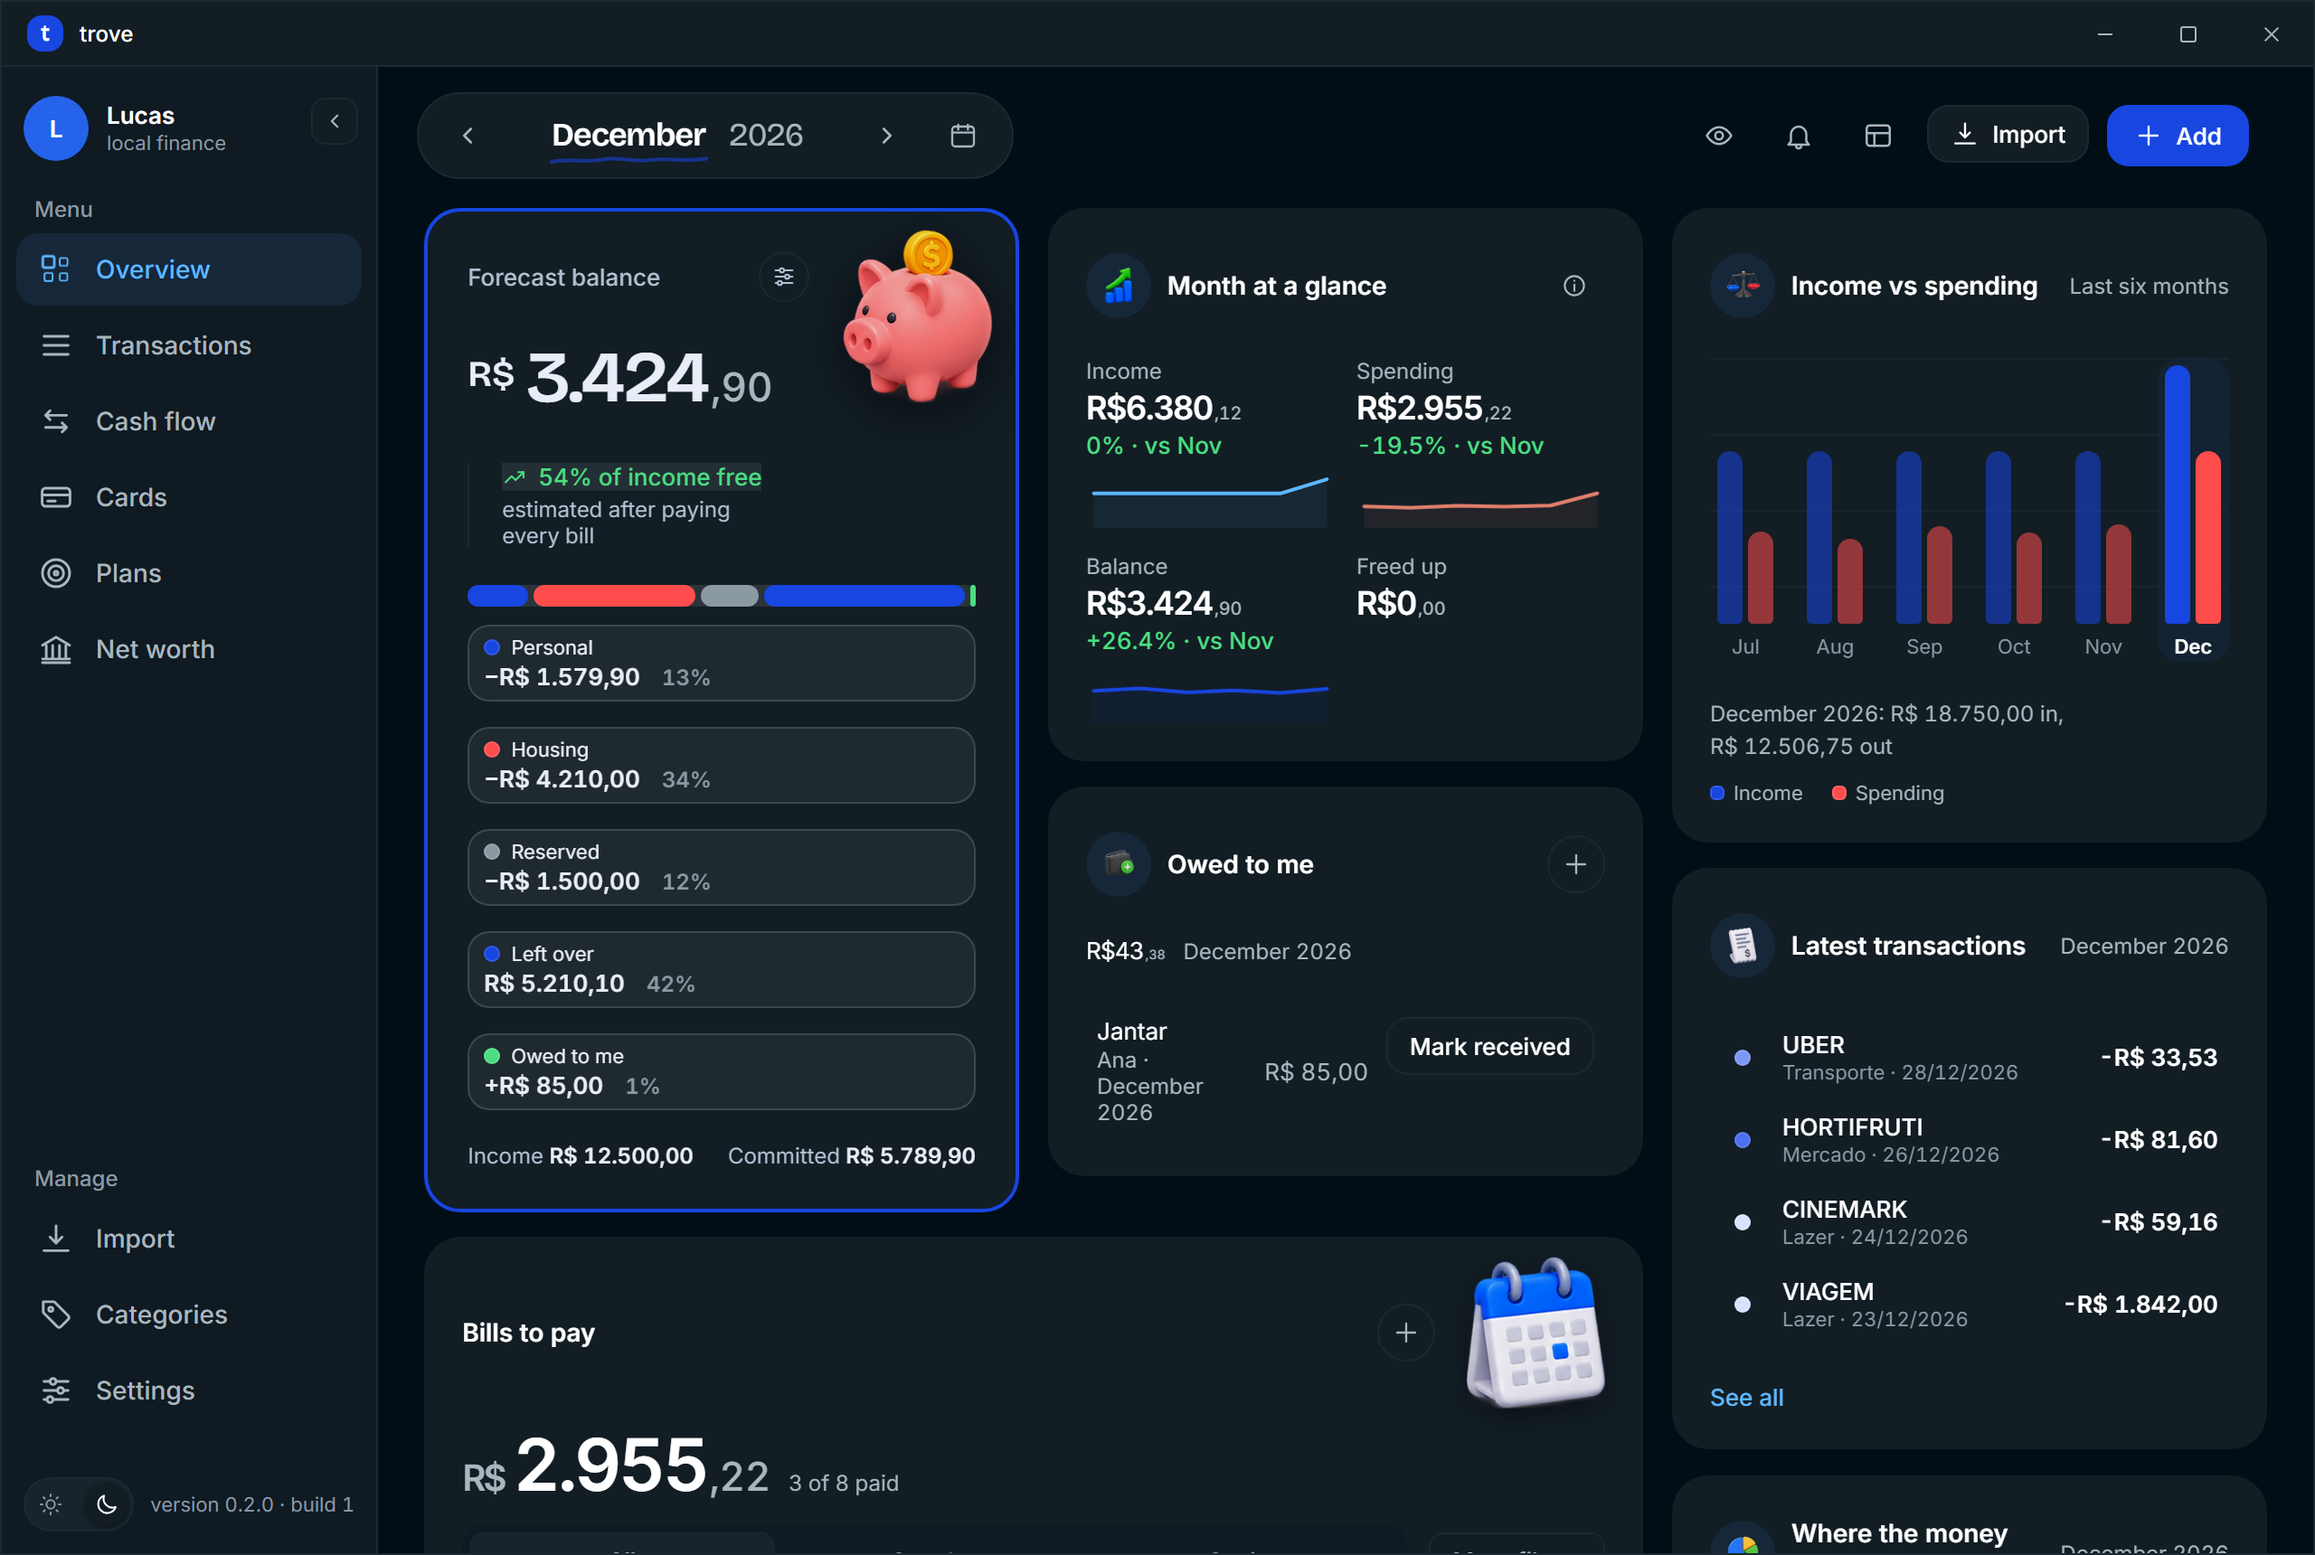
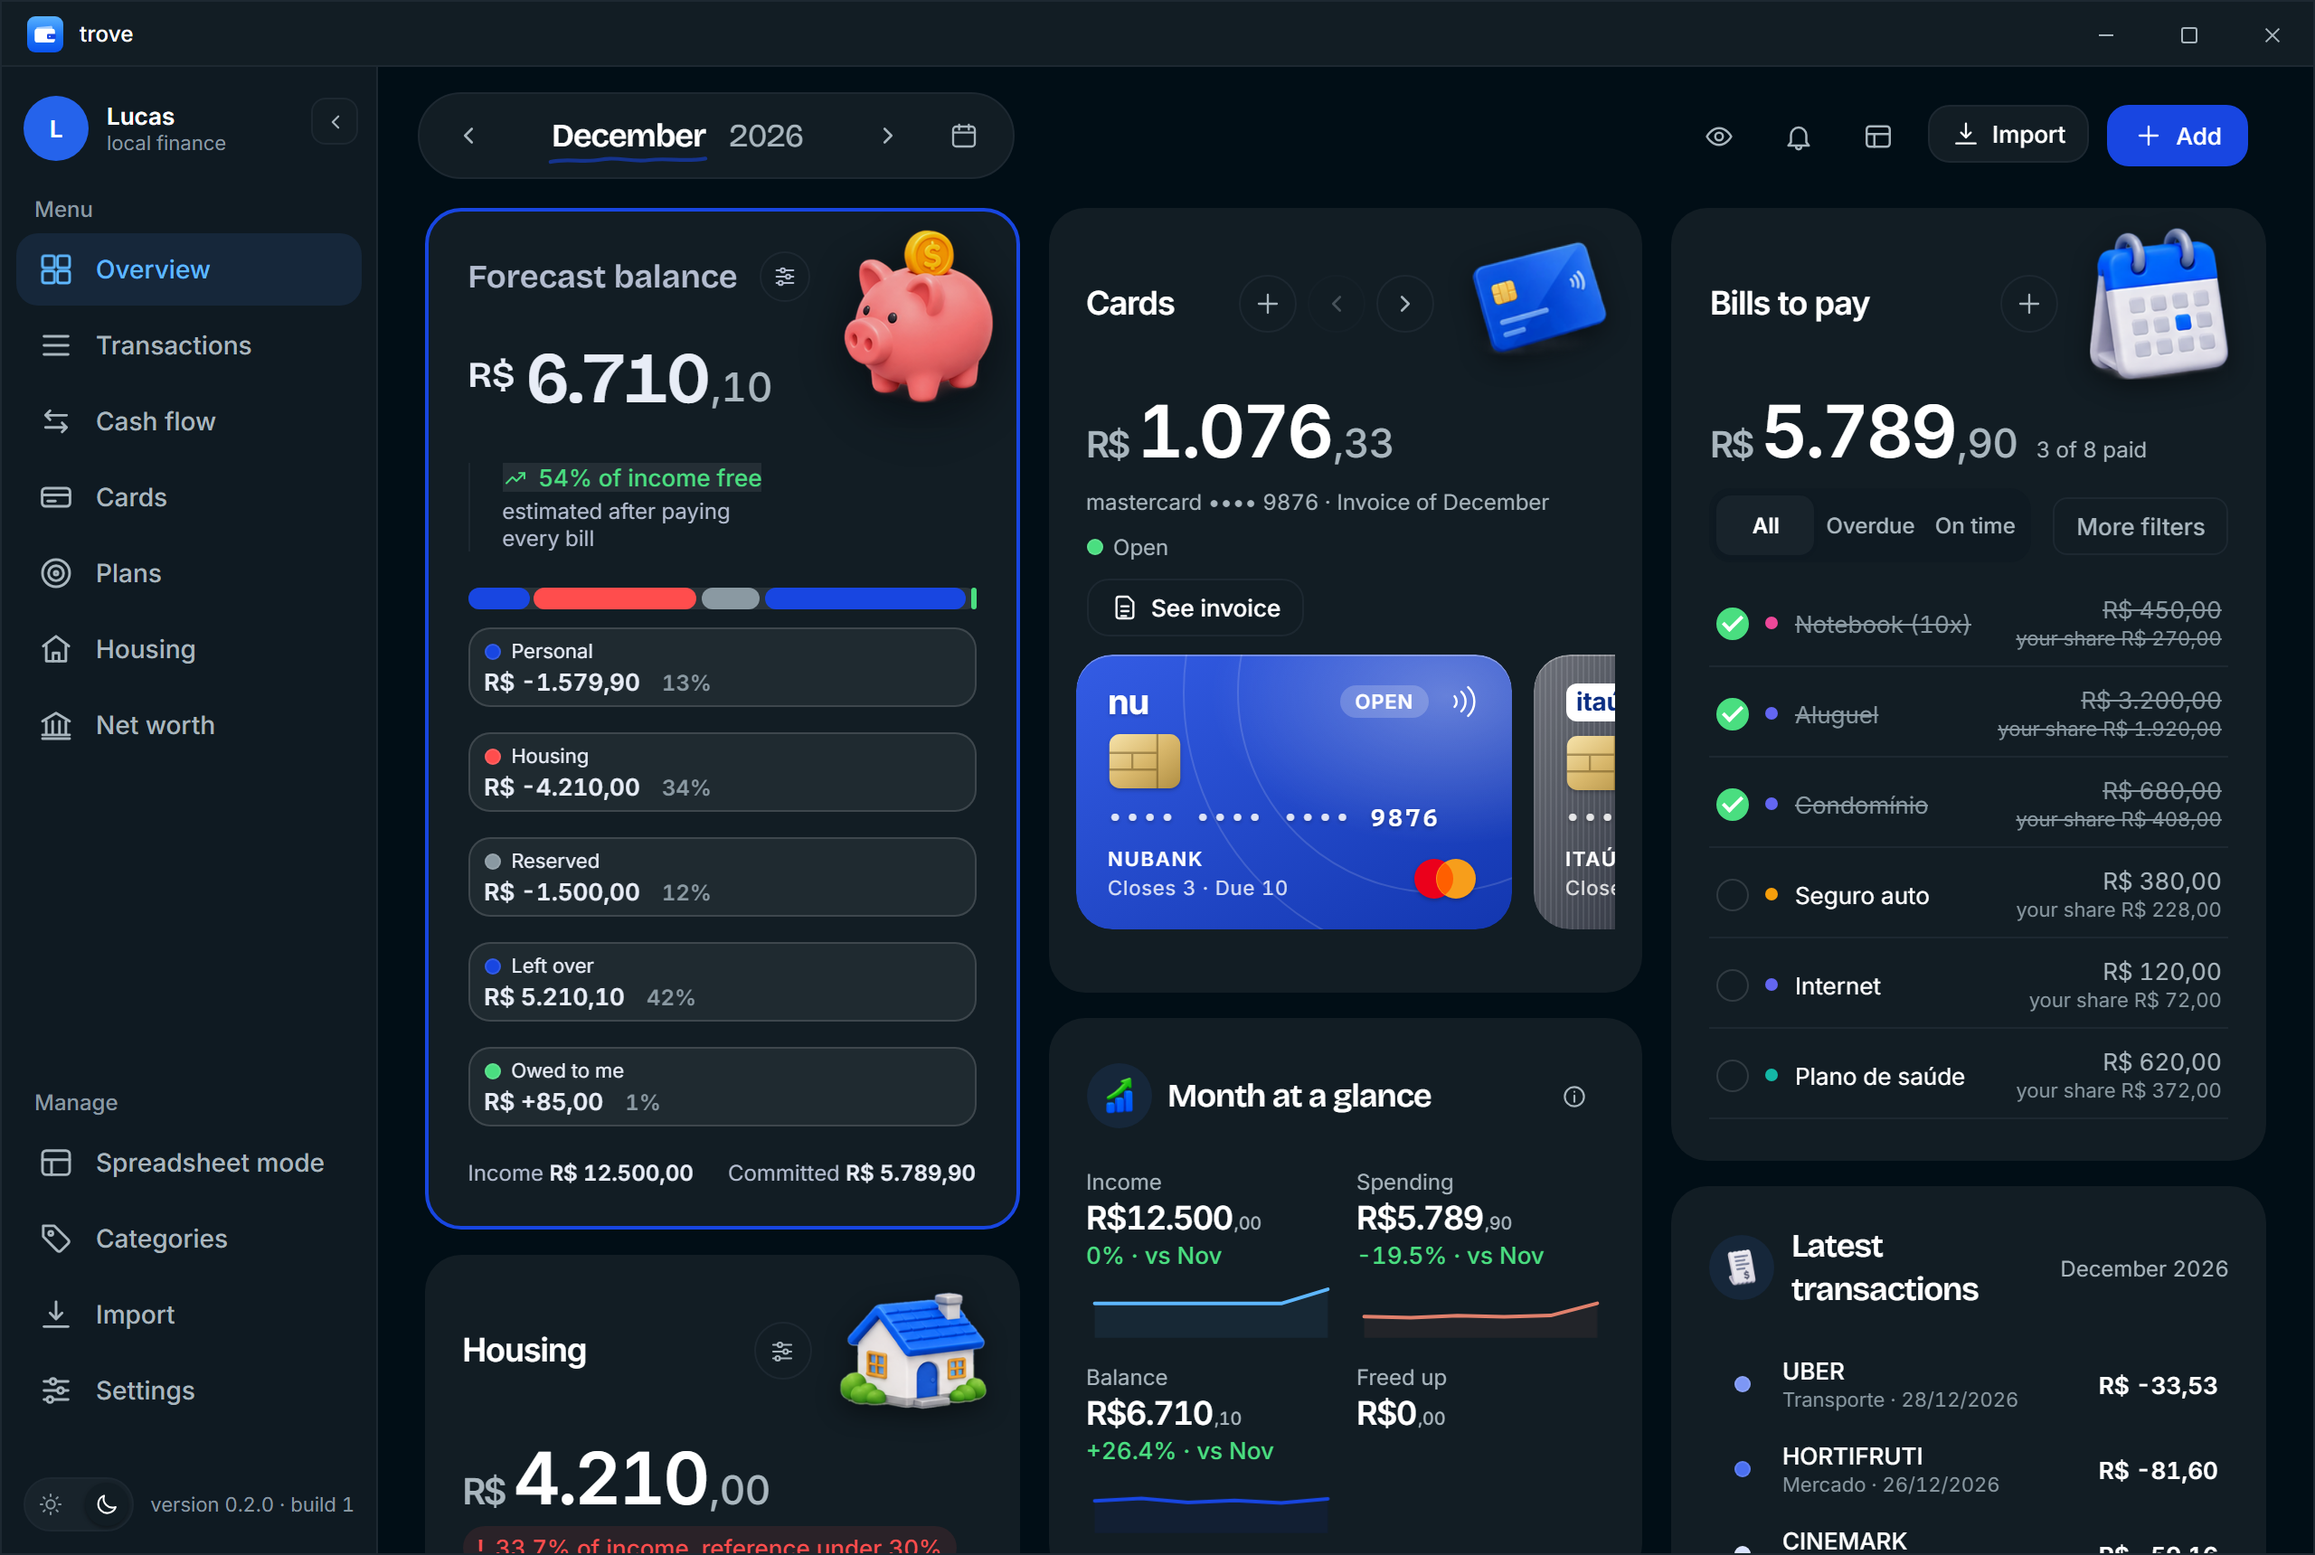
docs: README, site chips and release notes for spreadsheet mode; new screenshots

diff --git a/site/src/i18n/en.ts b/site/src/i18n/en.ts
@@ -59,7 +59,7 @@ export const en: Strings = {
         text: "Accounts, cards, investments and debts side by side, with their evolution over time.",
       },
     ],
-    small: ["Backup and restore with verification", "English and Portuguese", "Automatic updates"],
+    small: ["Spreadsheet mode for spending and investments", "Backup and restore with verification", "English and Portuguese", "Automatic updates"],
   },
   data: {
     eyebrow: "Where the data lives",

diff --git a/site/src/i18n/pt.ts b/site/src/i18n/pt.ts
@@ -58,6 +58,7 @@ export const pt = {
       },
     ],
     small: [
+      "Modo planilha para gastos e investimentos",
       "Backup e restauração com verificação",
       "Inglês e português",
       "Atualização automática",

diff --git a/README.md b/README.md
@@ -35,6 +35,17 @@
   </tr>
 </table>
 
+<table>
+  <tr>
+    <td width="50%"><b>Spending sheet</b><br>The month as a budget: income, expenses with "paid", totals and the expected final balance. Edit in place, sort, filter, drag rows, and track a partner's share.</td>
+    <td width="50%"><b>Investments sheet</b><br>Owner, institution, product, tax and maturity per holding, with estimated yield and charts below.</td>
+  </tr>
+  <tr>
+    <td><picture><source media="(prefers-color-scheme: dark)" srcset="site/src/assets/shots/sheets-spending-dark-en.png"><img alt="Spending sheet" src="site/src/assets/shots/sheets-spending-light-en.png"></picture></td>
+    <td><picture><source media="(prefers-color-scheme: dark)" srcset="site/src/assets/shots/sheets-investments-dark-en.png"><img alt="Investments sheet" src="site/src/assets/shots/sheets-investments-light-en.png"></picture></td>
+  </tr>
+</table>
+
 <sub>Screens are generated from the repository's own preview with sample data (see [site/README.md](site/README.md)), so they match the app.</sub>
 
 ## Why another finance app
@@ -55,7 +66,10 @@ Updates are automatic: the app checks on launch and offers the install from Sett
 
 ## What it does
 
-- **A dashboard that is yours.** Drag cards anywhere in the grid with a live preview, set each card's width in columns, and pick how much detail it shows: compact, minimised or expanded. A wide card shows more of it, not the same content stretched.
+- **A dashboard that is yours.** Drag cards anywhere in the grid with a live preview, set each card's width in columns, and pick how much detail it shows: compact, minimised or expanded.
+- **Spreadsheet mode.** A spending sheet that works as a monthly budget (income sources, expenses, paid marks, totals, expected balance) and an investments sheet with owner, institution, product, tax regime and maturity. Cells edit in place, headers sort, rows drag to reorder, and charts sit under each sheet.
+- **Partner expenses.** Turn it on beside the sheet tabs to say whose each income and expense is; names and amounts take the person's color and charts split income, expenses, paid and what is left per person.
+- **House and receivables.** Rent and household bills are editable right in the Housing card, every person has their own color, and money owed to you records who owes it as plain text.
 - **A ledger you can manage.** Import statements or create manual accounts and entries; search by description, merchant or category; edit manual entries; and export filtered results to CSV.
 - **OFX and CSV import.** Reads OFX 1.x/2.x and configurable bank CSV layouts, with preview, saved profiles and import history. Reimports deduplicate by `FITID` or fingerprint, including matching transactions between OFX and CSV.
 - **Categories and rules.** Organize categories in a tree, set budgets, and use matching rules to categorize imports without overwriting explicit choices.

diff --git a/release-notes/pt/0.8.0.md b/release-notes/pt/0.8.0.md
@@ -8,6 +8,7 @@ Modo planilha: investimentos e gastos como planilhas editáveis.
 - **Planilha de gastos.** O mês como um orçamento: fontes de renda, despesas com "paga", totais e saldo final esperado. Adicione linhas direto na tabela, edite as células no lugar, ordene pelo cabeçalho, filtre pagas ou pendentes e arraste linhas para reordenar.
 - **Gastos do parceiro.** Uma opção ao lado das abas indica de quem é cada renda e despesa, colore nomes e valores por pessoa e acrescenta gráficos por pessoa.
 - **Cor de cada pessoa.** Escolha uma cor para você e para cada pessoa em Casa; gráficos e listas seguem a cor.
+- **A receber.** Quem deve é texto livre (não precisa ser alguém da casa), "recebido" é uma caixinha simples e cada item pode ser editado ou excluído pelo card.
 - **Contas da casa.** O aluguel e as contas da casa podem ser editados no próprio card, e a mudança vale em todo o app.
 
 ## Melhorias

diff --git a/docs/site-marketing.md b/docs/site-marketing.md
@@ -116,7 +116,7 @@ Fecho: CSV também funciona, com perfil configurável por banco.
 
 Seis cards, dois deles em azul sólido, os outros em `#f7f8fa`. Título de card em 20px, corpo em 15px.
 
-1. **Dashboard que é seu.** Arraste os cards, escolha a largura de cada um e o nível de detalhe. Card largo mostra mais conteúdo, não o mesmo conteúdo esticado.
+1. **Dashboard que é seu.** Arraste os cards, escolha a largura de cada um e o nível de detalhe.
 2. **Importação que não duplica.** OFX 1.x e 2.x, CSV de banco configurável, deduplicação por FITID e por impressão digital, histórico de cada arquivo que entrou.
 3. **Categorias e regras.** Árvore de categorias, orçamento por categoria e regras que classificam sem sobrescrever o que você escolheu à mão.
 4. **Transferências e estornos.** Par de transferência não infla receita nem despesa. Estorno compensa a compra original.

diff --git a/release-notes/0.8.0.md b/release-notes/0.8.0.md
@@ -8,6 +8,7 @@ Spreadsheet mode: investments and spending as editable sheets.
 - **Spending sheet.** The month as a budget: income sources, expenses with "paid", totals and the expected final balance. Add rows inline, edit cells in place, sort by header, filter paid or pending, and drag rows to reorder.
 - **Partner expenses.** An option beside the tabs marks whose each income and expense is, colors names and values by person, and adds charts per person.
 - **Person colors.** Pick a color for yourself and for each person in Housing; charts and lists follow it.
+- **Receivables.** Who owes you is plain text (they need not be a household member), "received" is a simple checkbox, and each item can be edited or deleted from the card.
 - **Housing bills.** Rent and household bills can be edited right in the card, and the change shows up everywhere.
 
 ## Improved
